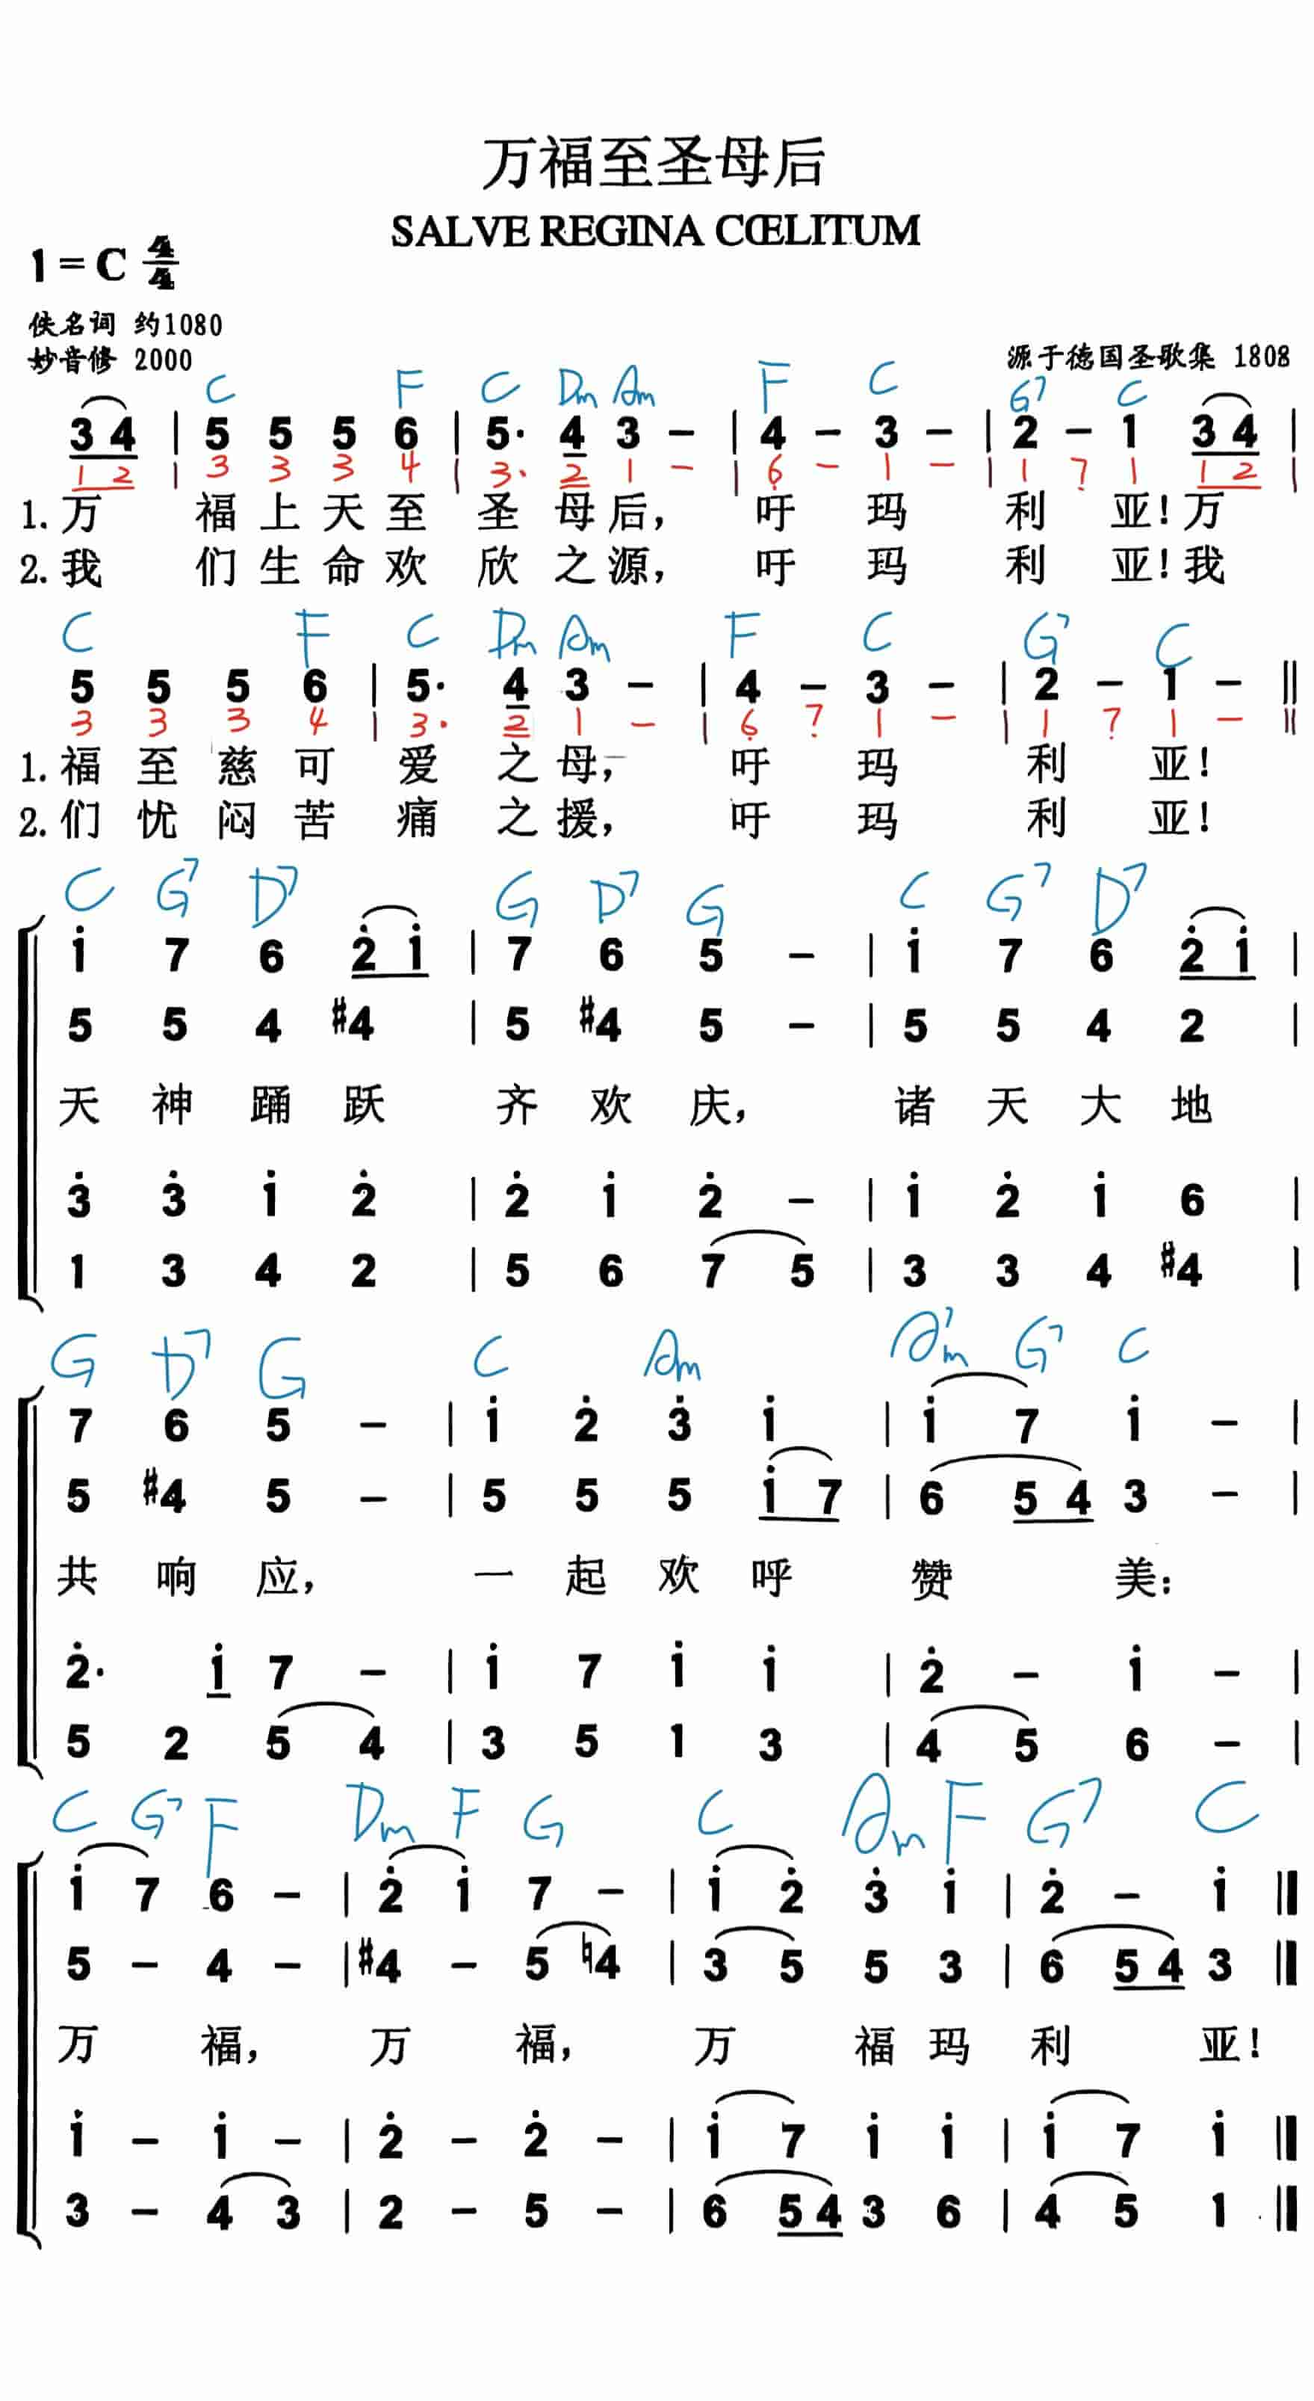
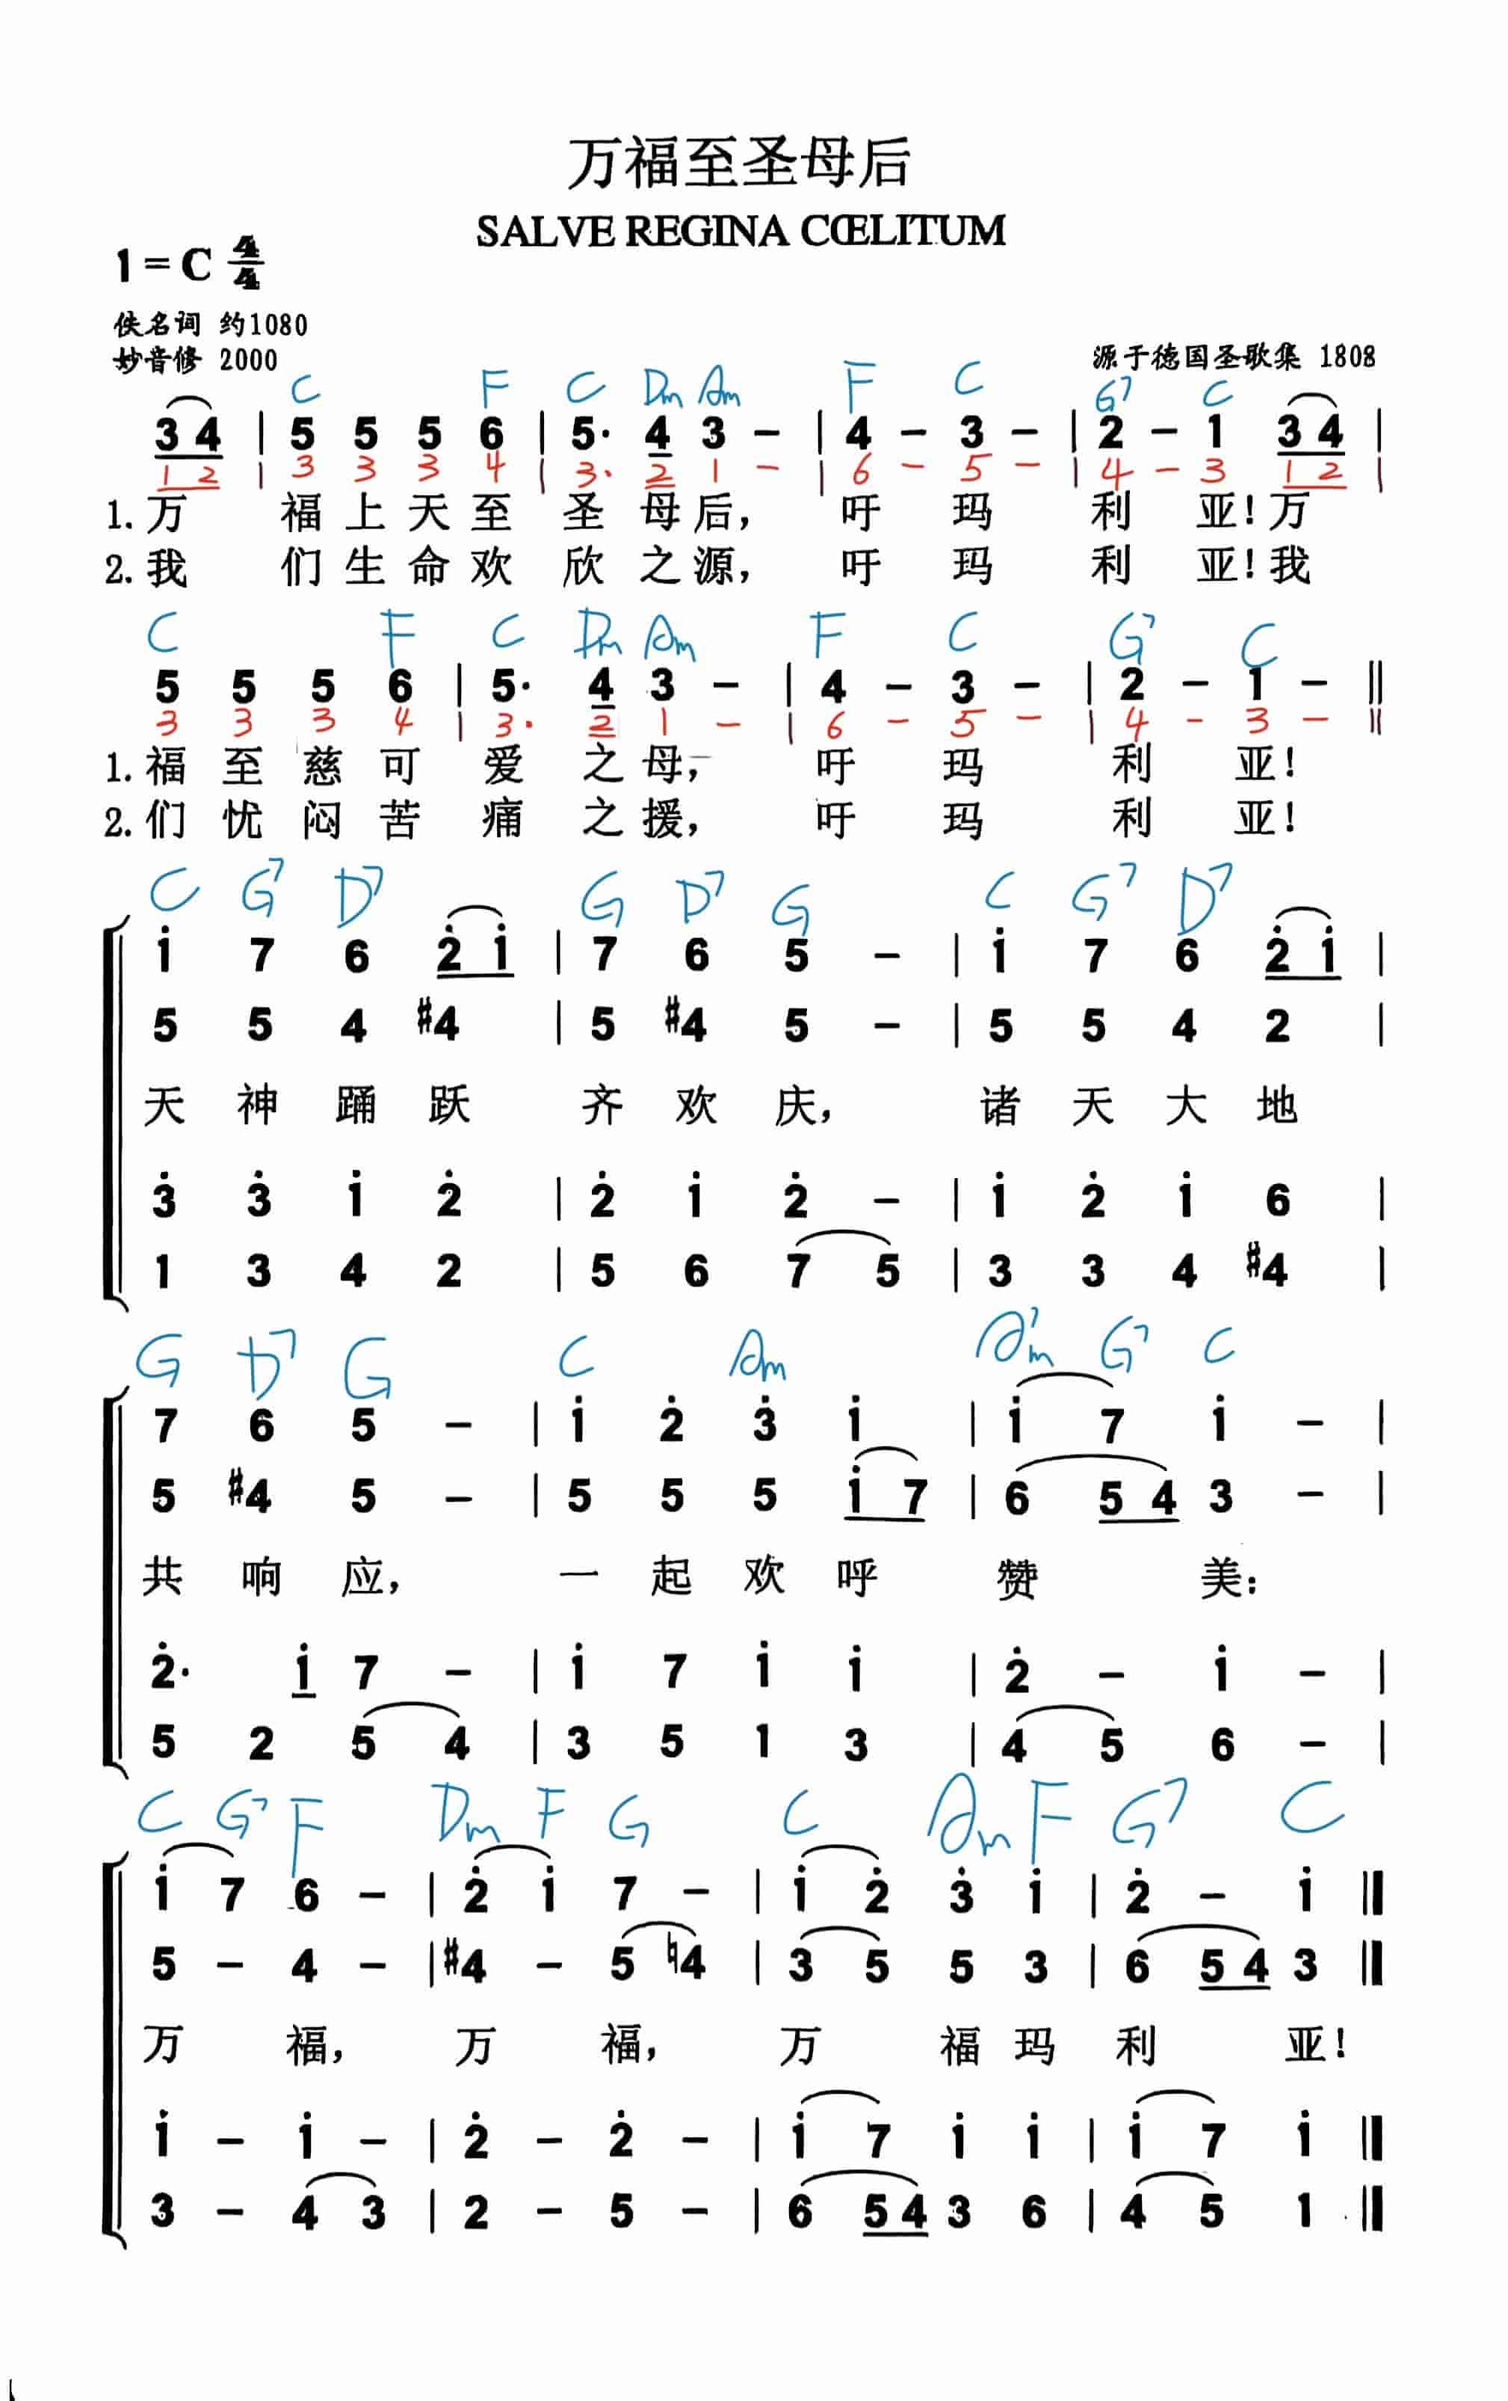
更新本周歌曲；修正《万福至圣母后》。

diff --git a/index.html b/index.html
@@ -2718,17 +2718,16 @@
     }
   },
   "weeklySongs": {
-    "updateDate": "2025/09/14",
+    "updateDate": "2025/09/21",
     "songs": [
-      {"category": "进堂咏", "id": "015"},
-      {"category": "垂怜曲", "id": "002"},
-      {"category": "光荣颂", "id": "003"},
-      {"category": "答唱咏（朱健仁）", "id": "202"},
-      {"category": "福音前欢呼", "id": "003"},
+      {"category": "进堂咏", "id": "017"},
+      {"category": "垂怜曲", "id": "001"},
+      {"category": "光荣颂", "id": "002"},
+      {"category": "福音前欢呼", "id": "002"},
       {"category": "奉献咏", "id": "007"},
       {"category": "天主经", "id": "001"},
-      {"category": "领主咏", "id": "004"},
-      {"category": "礼成咏", "id": "003"}
+      {"category": "领主咏", "id": "010"},
+      {"category": "礼成咏", "id": "015"}
     ]
   }
 };
